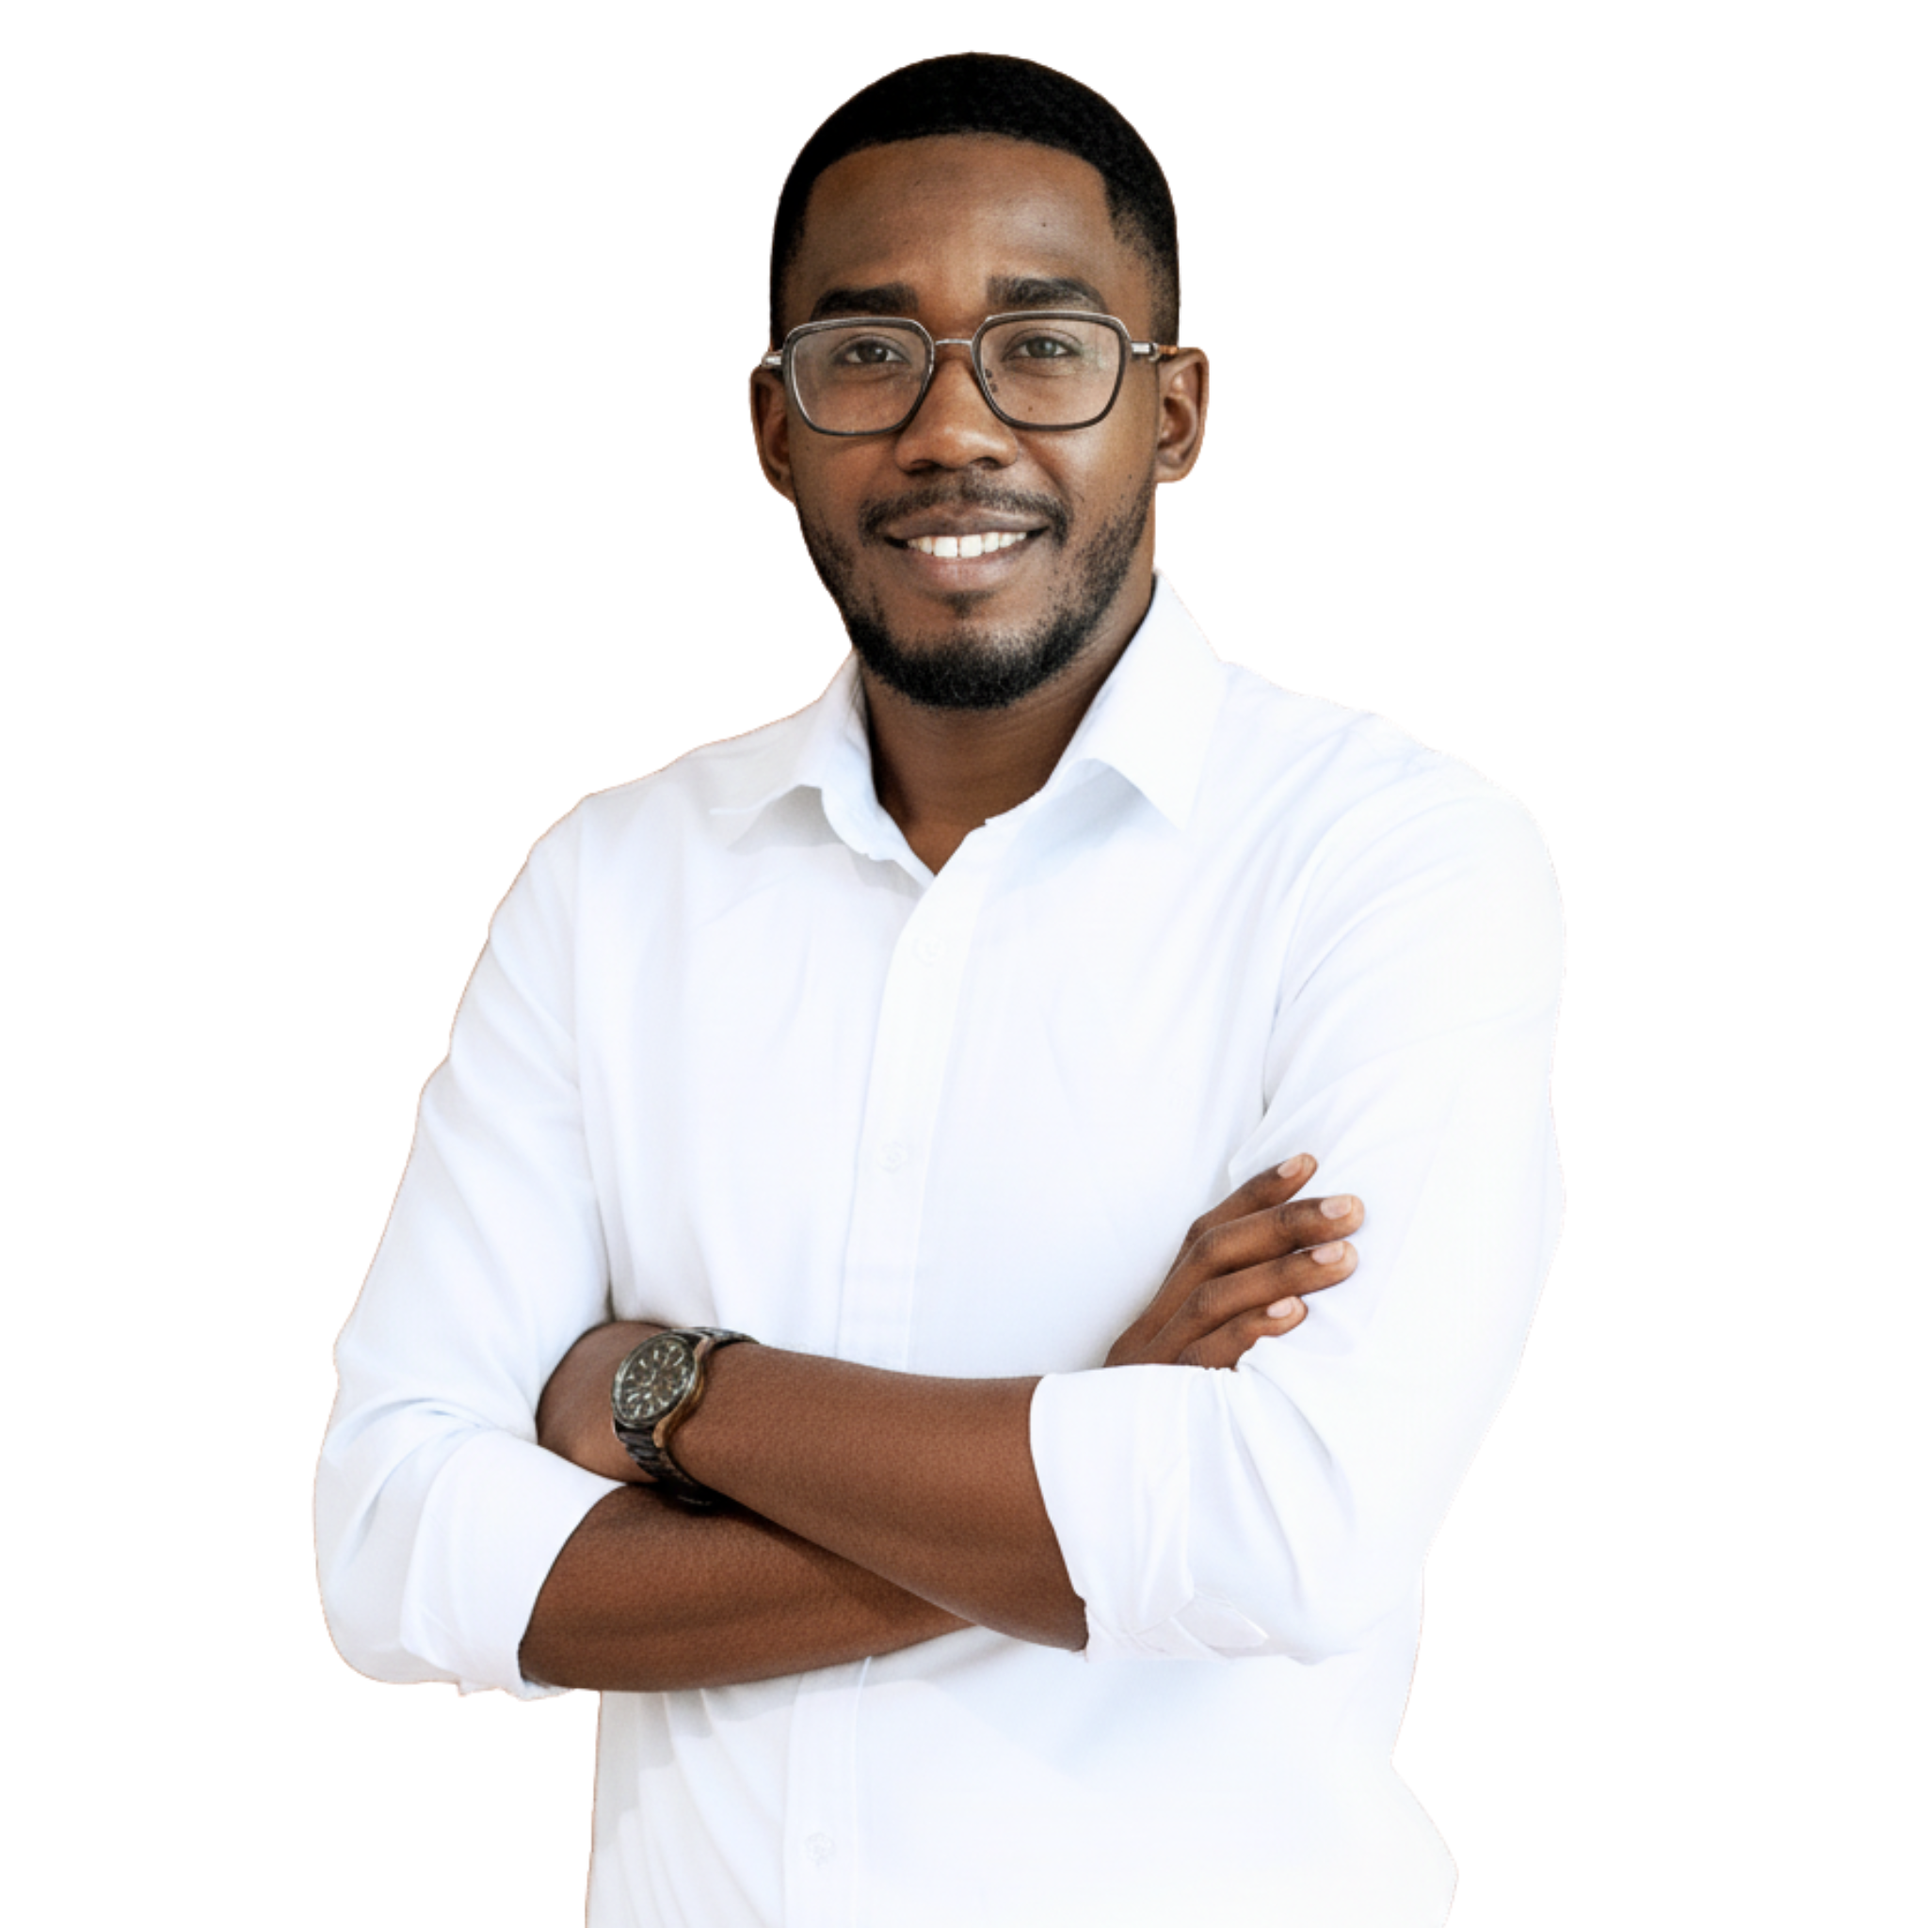
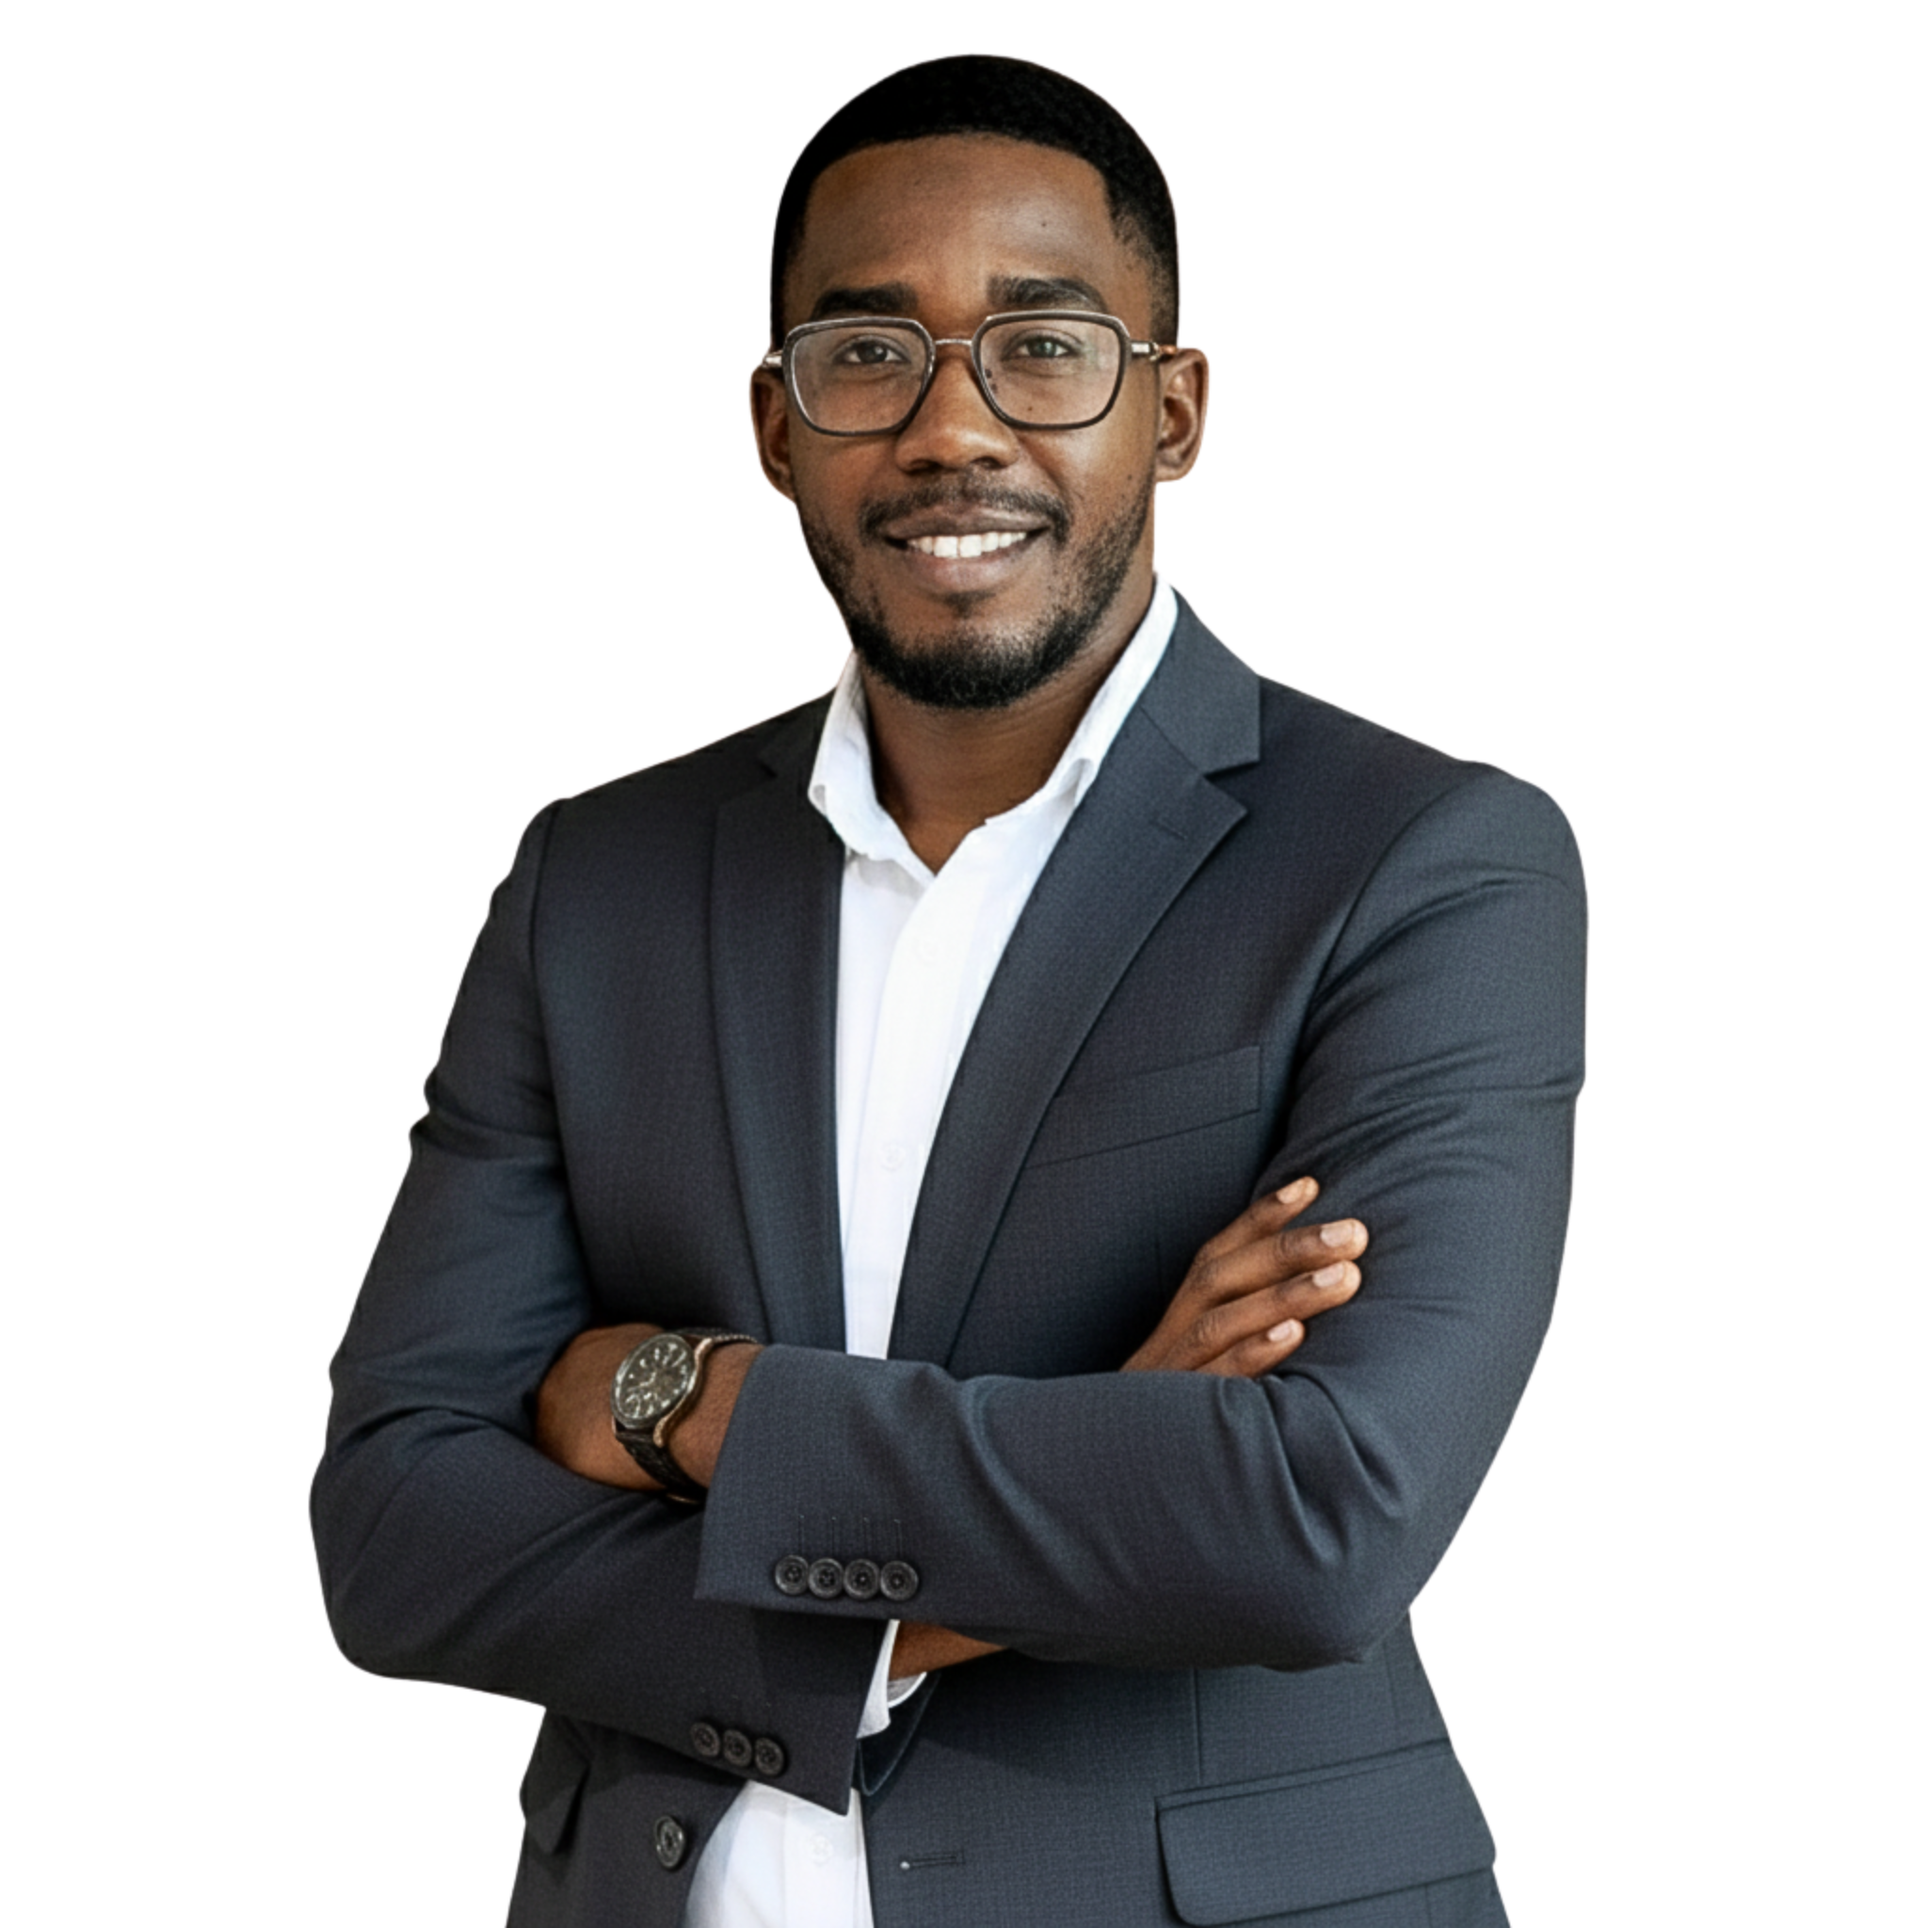
mise a jour complete

diff --git a/src/app/communication/page.tsx b/src/app/communication/page.tsx
@@ -9,68 +9,91 @@ export default function CommunicationPage() {
     return (
         <main className="bg-[#050505] text-white min-h-screen font-body overflow-x-hidden">
 
-            {/* --- HERO WRAPPER (White Background, Rounded Bottom) --- */}
-            <div className="bg-white rounded-b-[50px] pt-5 relative text-center overflow-hidden pb-0">
+            {/* --- HERO WRAPPER --- */}
+            <div className="bg-white rounded-b-[40px] md:rounded-b-[60px] pt-5 pb-10 md:pb-0 relative text-center overflow-hidden min-h-auto md:min-h-[85vh] flex flex-col items-center">
 
-                {/* --- INTERNAL PILL NAVBAR --- */}
-                <nav className="hidden md:inline-flex gap-5 bg-black px-10 py-4 rounded-full mb-10">
-                    <Link href="/" className="text-white font-display uppercase text-sm hover:text-[#D4AF37] transition-colors">Accueil</Link>
-                    <Link href="#" className="text-[#D4AF37] font-display uppercase text-sm">Nos Cours</Link>
-                    <Link href="/inscription" className="text-white font-display uppercase text-sm hover:text-[#D4AF37] transition-colors">Inscription</Link>
-                    <Link href="/contact" className="text-white font-display uppercase text-sm hover:text-[#D4AF37] transition-colors">Contact</Link>
-                </nav>
+                {/* --- NAVIGATION PILULE (Scrollable Mobile) --- */}
+                <div className="w-full flex justify-center px-5 mb-8">
+                    <nav className="inline-flex gap-1 px-4 py-2 bg-black rounded-full overflow-x-auto whitespace-nowrap scrollbar-hide max-w-full">
+                        <Link href="/" className="text-white font-display uppercase text-sm px-4 py-2 rounded-full hover:bg-[#D4AF37] hover:text-black transition-colors">Accueil</Link>
+                        <Link href="#" className="bg-[#D4AF37] text-black font-display uppercase text-sm px-4 py-2 rounded-full">Cours Com'</Link>
+                        <Link href="/inscription" className="text-white font-display uppercase text-sm px-4 py-2 rounded-full hover:bg-[#D4AF37] hover:text-black transition-colors">Inscription</Link>
+                        <Link href="/contact" className="text-white font-display uppercase text-sm px-4 py-2 rounded-full hover:bg-[#D4AF37] hover:text-black transition-colors">Contact</Link>
+                        <Link href="/reglement" className="text-white font-display uppercase text-sm px-4 py-2 rounded-full hover:bg-[#D4AF37] hover:text-black transition-colors">Règlement</Link>
+                    </nav>
+                </div>
 
                 {/* --- HERO TITLE --- */}
-                <h1 className="text-black font-display text-4xl md:text-6xl uppercase leading-[1.1] mb-2 max-w-4xl mx-auto px-4">
-                    <span className="text-[#D4AF37] text-3xl align-middle mr-2">✶</span>
+                <h1 className="text-black font-display text-[2.2rem] md:text-[3.5rem] uppercase leading-[1.1] mb-4 max-w-[900px] px-4 mx-auto">
+                    <span className="text-[#D4AF37] text-xl md:text-2xl align-middle mr-2">✦</span>
                     Devenez l'Expert<br />
                     De Votre Image
-                    <span className="text-[#D4AF37] text-3xl align-middle ml-2">✶</span>
+                    <span className="text-[#D4AF37] text-xl md:text-2xl align-middle ml-2">✦</span>
                 </h1>
-                <p className="text-[#555] max-w-xl mx-auto mt-2 mb-8 px-4">
-                    Graphisme, Marketing, Communication. Apprenez à dompter les outils numériques.
+                <p className="text-[#666] max-w-[600px] mx-auto mb-8 px-5 text-[0.95rem] md:text-[1.1rem] leading-relaxed">
+                    Graphisme, Marketing, Communication. Passez au niveau supérieur avec nos modules intensifs.
                 </p>
 
+                {/* --- REVIEW BADGE (Mobile Position: Centered above image) --- */}
+                <div className="block md:hidden relative mb-5 bg-white px-5 py-2 rounded-xl shadow-lg border border-gray-100">
+                    <div className="text-[#D4AF37] tracking-widest text-xs">★★★★★</div>
+                    <div className="font-display text-black text-xl font-bold leading-none mt-1">10 Ans</div>
+                    <div className="text-[#888] text-[0.7rem]">d'Expérience</div>
+                </div>
+
                 {/* --- HERO IMAGE CONTAINER --- */}
-                <div className="relative h-[400px] md:h-[500px] flex justify-center items-end mt-8">
+                <div className="relative w-full max-w-[800px] flex-grow flex justify-center items-end mt-5">
 
                     {/* Circle Background */}
-                    <div className="absolute w-[300px] h-[300px] md:w-[450px] md:h-[450px] bg-[#f0f0f0] rounded-full bottom-[-50px] z-0"></div>
+                    <div className="absolute w-[320px] h-[320px] md:w-[500px] md:h-[500px] bg-[#f2f2f2] rounded-full bottom-[-40px] md:bottom-[-80px] z-0 left-1/2 -translate-x-1/2"></div>
 
                     {/* Mentor Image */}
-                    <div className="relative z-10 h-[110%] w-auto flex items-end">
+                    <div className="relative z-10">
                         <Image
                             src="/formateur-mentore.png"
                             alt="Ali William"
                             width={600}
                             height={800}
-                            className="h-full w-auto object-cover drop-shadow-[0_10px_20px_rgba(0,0,0,0.3)]"
+                            className="h-auto w-[90vw] max-w-[400px] md:h-[550px] md:w-auto object-contain drop-shadow-[0_15px_30px_rgba(0,0,0,0.4)] mb-[-20px] md:mb-0"
                             priority
                         />
                     </div>
 
-                    {/* Floating Buttons (Desktop Only) */}
-                    <Link href="#programme" className="hidden md:block absolute z-20 bottom-[100px] left-1/2 -translate-x-[250px] bg-black/80 text-white px-6 py-3 rounded-full font-display border border-[#D4AF37] backdrop-blur-sm hover:bg-[#D4AF37] hover:text-black hover:-translate-y-1 transition-all">
-                        Voir le Programme
-                    </Link>
-                    <Link href="/inscription" className="hidden md:block absolute z-20 bottom-[100px] left-1/2 translate-x-[120px] bg-black/80 text-white px-6 py-3 rounded-full font-display border border-[#D4AF37] backdrop-blur-sm hover:bg-[#D4AF37] hover:text-black hover:-translate-y-1 transition-all">
-                        S'inscrire ➔
-                    </Link>
+                    {/* --- DESKTOP FLOATING BUTTONS --- */}
+                    <div className="hidden md:block">
+                        <Link href="#programme" className="absolute z-20 bottom-[150px] left-[10%] bg-black/90 text-white px-8 py-4 rounded-full font-display border border-[#D4AF37] backdrop-blur-md hover:bg-[#D4AF37] hover:text-black hover:scale-105 transition-all shadow-lg text-lg">
+                            Voir le Programme
+                        </Link>
+                        <Link href="/inscription" className="absolute z-20 bottom-[150px] right-[10%] bg-black/90 text-white px-8 py-4 rounded-full font-display border border-[#D4AF37] backdrop-blur-md hover:bg-[#D4AF37] hover:text-black hover:scale-105 transition-all shadow-lg text-lg">
+                            S'inscrire ➔
+                        </Link>
+                    </div>
 
-                    {/* Review Badge (Desktop Only) */}
-                    <div className="hidden md:block absolute top-[40%] right-[10%] text-left z-20">
-                        <div className="text-[#D4AF37] tracking-widest text-lg">★★★★★</div>
-                        <div className="font-display text-black text-2xl font-bold">10 Ans</div>
-                        <div className="text-[#666] text-sm">d'Expérience</div>
+                    {/* --- DESKTOP REVIEW BADGE --- */}
+                    <div className="hidden md:block absolute top-[20%] right-[15%] z-20 bg-white p-4 rounded-2xl shadow-[0_10px_30px_rgba(0,0,0,0.1)] text-center">
+                        <div className="text-[#D4AF37] tracking-widest text-sm">★★★★★</div>
+                        <div className="font-display text-black text-3xl font-bold leading-none mt-1">10 Ans</div>
+                        <div className="text-[#888] text-xs">d'Expérience</div>
                     </div>
 
                 </div>
+
+                {/* --- MOBILE ACTION BUTTONS (Stacked below image) --- */}
+                <div className="flex md:hidden flex-wrap justify-center w-full mt-[-40px] relative z-20 gap-3 px-4">
+                    <Link href="#programme" className="bg-black/90 text-white px-6 py-3 rounded-full font-display border border-[#D4AF37] backdrop-blur-md text-sm shadow-lg">
+                        Voir le Programme
+                    </Link>
+                    <Link href="/inscription" className="bg-[#D4AF37] text-black px-6 py-3 rounded-full font-display border border-[#D4AF37] text-sm shadow-lg font-bold">
+                        S'inscrire ➔
+                    </Link>
+                </div>
+
             </div>
 
             {/* --- MODULES SECTION (Preserved) --- */}
             <section id="programme" className="py-20 px-6 md:px-12 bg-[#050505]">
                 <div className="max-w-7xl mx-auto">
-                    <h2 className="text-center font-display text-4xl md:text-5xl text-[#D4AF37] mb-16 uppercase">
+                    <h2 className="text-center font-display text-3xl md:text-5xl text-[#D4AF37] mb-16 uppercase">
                         Le Programme Complet
                     </h2>
 
